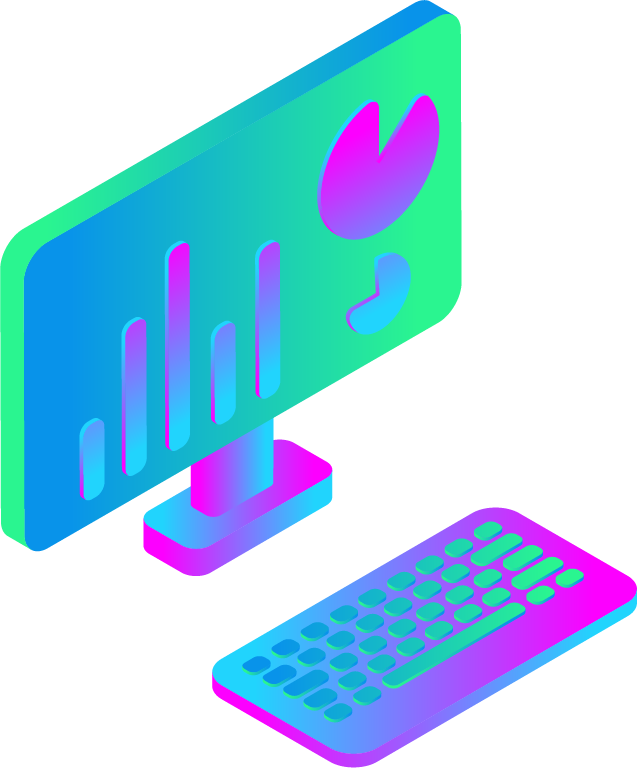
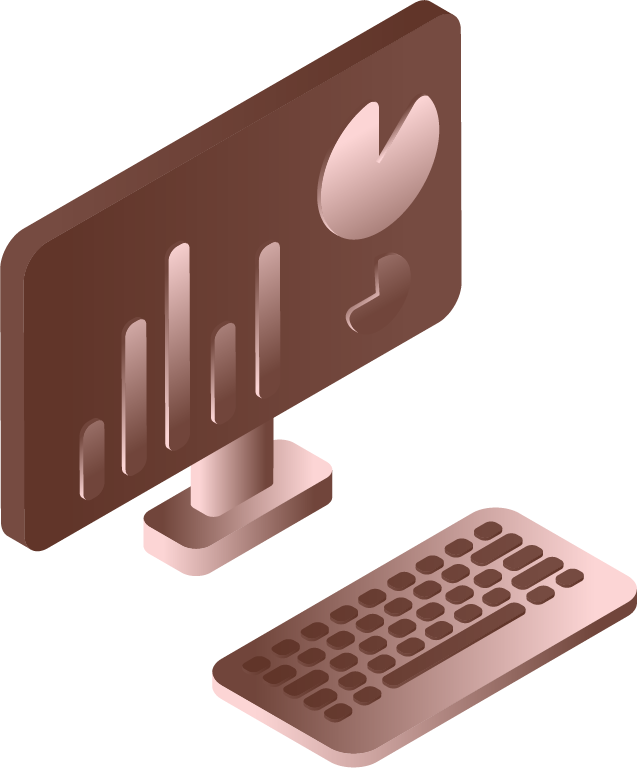
v0.0.0.7
What's new?
- Changed color of icons
- Icons made smaller and now they take less space

diff --git a/index.html b/index.html
@@ -17,7 +17,7 @@
     </nav>
     <div class="container zone white-gd text-black"><p class="centered border">HODOČAŠĆE</p><img class="container img-fit" src="img/site2.jpg"></div>
     <div class="zone brown-gd grid-wrapper">
-        <div class="box zone brown" title="Check out the GitHub!" onclick="github()"><img src="img/files_2.png"><figcaption class="text-white text-size-sm">Github</figcaption></div>
+        <div class="box zone brown" title="Check out the GitHub!" onclick="github()"><img src="img/files_2.png"><figcaption class="text-white text-size-sm bottom">Github</figcaption></div>
         <div class="box zone brown" title="I have no function yet!"><img src="img/server_2_2.png"></div>
         <div class="box zone brown" title="I have no function yet!"><img src="img/monitor_settings_2.png"></div>
         <div class="box zone brown" title="I have no function yet!"><img src="img/server_3.png"></div>

diff --git a/style.css b/style.css
@@ -138,19 +138,24 @@ figcaption {
 
 .grid-wrapper {
     display: grid;
-    grid-gap: 20px;
-    grid-template-columns: repeat(auto-fill, minmax(350px, 1fr));
+    grid-gap: 5px;
+    grid-template-columns: repeat(auto-fill, minmax(250px, 1fr));
 }
 
 .box > img {
-    width: 100%;
+    width: 70px;
+    height: 70px;
 }
 
 .box {
+    display: flex;
     background-color: #444;
-    padding: 100px;
-    margin: 40px;
+    padding: 70px;
+    margin: 20px;
     cursor: pointer;
+    width: 25%;
+    justify-content: center;
+    justify-self: center;
 }
 
 footer {
@@ -247,3 +252,14 @@ footer {
 .about {
     padding-left: 10px;
 }
+
+.bottom {
+    position: absolute;
+    top: 90%;
+    left: 50%;
+    transform: translate(-50%, -50%);
+    color: white;
+    text-shadow: 2px 2px 8px #000000;
+    letter-spacing: 1px;
+    font-size: 35%;
+  }
